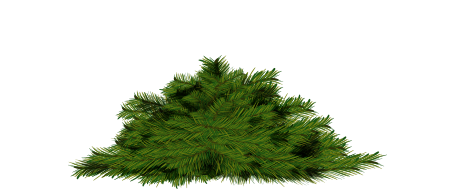
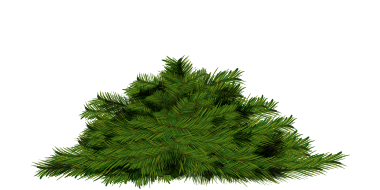
Update v1.2
Tree updated, balls hang in alignment of degrees rotated.

Changed region(s): [[0.0868, 0.2895, 0.9263, 1.0]]

diff --git a/css/styles.css b/css/styles.css
@@ -1,1 +1,1 @@
-html,body,div,span,applet,object,iframe,h1,h2,h3,h4,h5,h6,p,blockquote,pre,a,abbr,acronym,address,big,cite,code,del,dfn,em,img,ins,kbd,q,s,samp,small,strike,strong,sub,sup,tt,var,b,u,i,center,dl,dt,dd,ol,ul,li,fieldset,form,label,legend,table,caption,tbody,tfoot,thead,tr,th,td,article,aside,canvas,details,embed,figure,figcaption,footer,header,hgroup,menu,nav,output,ruby,section,summary,time,mark,audio,video{margin:0;padding:0;font-size:12px;font:inherit}article,aside,details,figcaption,figure,footer,header,hgroup,menu,nav,section{display:block}body{line-height:1}ol,ul{list-style:none}blockquote,q{quotes:none}blockquote:before,blockquote:after,q:before,q:after{content:'';content:none}table{border-collapse:collapse;border-spacing:0}:focus{outline:none}::-moz-focus-inner{border:0}*:focus{outline:0}*{margin:0;box-sizing:border-box}html,body{margin:0;padding:0;background-color:white;color:#666666;font-size:15px;font-family:Helvetica,Verdana,monospace;height:100%;min-height:100%}img{border-style:none;vertical-align:top}a{text-decoration:underline;color:#ccc;font-weight:bold;font-family:Helvetica,Verdana,monospace;font-size:1em}a:hover{text-decoration:none}h1{color:#fff;font-family:Arial,cursive,sans-serif;font-weight:normal;text-align:center;font-size:50px;line-height:1.2em;padding:10px 0px;margin:0px auto 0px}h2{color:#fff;font-family:Helvetica,Verdana,monospace;font-weight:normal;text-align:left;font-size:3.2em;line-height:1em;margin:0px 0px 20px;padding-top:30px}h3{color:#fff;font-family:Times,sans-serif;font-weight:normal;text-align:center;font-size:1.8em;line-height:1.2em;margin:0px 0px 15px 0px}h4{color:#fff;font-family:Helvetica,Verdana,monospace;font-weight:normal;text-align:center;font-size:31px;line-height:1.2em;margin:0px 0px 15px}h5{font-family:Arial,sans-serif;font-weight:bold;color:black;font-size:1.1em;line-height:1.4em}h6{font-family:Arial,sans-serif;font-weight:bold;color:black;font-size:1.6em;line-height:1.6em;margin:0;padding:0}p{color:#fff;font-size:1.1em;font-family:Helvetica,Verdana,monospace;text-align:left;line-height:1.3em;margin-top:8px;margin-bottom:20px}.main{background:rgba(0,255,0,0.2);color:white;font-weight:bold;position:absolute;top:0;width:100%}.float-containers{overflow:hidden;width:100%}.fl{float:left;width:60%}.fr{float:right;width:39%}.onethird{width:32%;float:left}.marginleft{margin-left:2%}.medium-col{float:left;width:49%}.footer{position:fixed;bottom:10px;right:10px;z-index:9;padding-top:200px}label{font-family:Helvetica,Verdana,monospace;color:#fff;font-size:1em;line-height:1.4em}ul{list-style:disc;color:white}ul li{color:white;font-family:Helvetica,Verdana,monospace;font-size:1.6em;line-height:1.6em;font-weight:100}hr{margin-top:5px;margin-bottom:8px;border:none;border-bottom:1px solid #d9d9d9}.input-wrap{border-radius:5px;-moz-border-radius:5px;-webkit-border-radius:5px;border:1px solid #000;border-bottom:3px solid #000;background:url("../images/btn_input.jpg") no-repeat;color:white;width:100%;max-width:400px;margin:0 auto 15px}select{background:none;text-align:left;font-size:2em;border:none;width:95%;color:white;margin:0px 10px 4px;-webkit-appearance:none;-moz-appearance:none;background:url("../images/select.png") no-repeat 95% 50% !important}.error{border-color:red}.buttonbg{width:100%;max-width:400px;margin:10px auto 10px;text-align:center}.button{display:block;width:100%;color:#fff;font-size:40px;line-height:42px;padding:5px 0px 5px;font-family:Arial,sans-serif;text-shadow:2px 2px 1px rgba(30,30,30,0.8);-webkit-border-radius:10px;-moz-border-radius:10px;border-radius:10px;background:url("../images/btn_bg.png") 0 0 no-repeat;-webkit-box-shadow:2px 2px 10px rgba(50,50,50,0.71);-moz-box-shadow:2px 2px 10px rgba(50,50,50,0.71);box-shadow:2px 2px 10px rgba(50,50,50,0.71);text-decoration:none}a.button:hover{color:black}.container{position:relative;width:100%;margin:0 auto;height:100%;min-height:100%;text-align:center;background-size:cover;overflow-x:hidden}::-webkit-input-placeholder{color:white}:-moz-placeholder{color:white;opacity:1}::-moz-placeholder{color:white;opacity:1}:-ms-input-placeholder{color:white}@media only screen and (min-width: 320px){.container{width:100%;overflow:hidden;height:100%;max-width:960px}.header img{width:100%}.header{position:absolute}#tree{transition:.35s;position:absolute;bottom:0}#tree .segment>img{width:100%;height:190px}#tree .ornament>img{margin:0 15px}}@media only screen and (min-width: 480px){#tree{margin:0 auto;max-width:960px;transition:.35s}#tree .segment>img{width:auto}}@media only screen and (min-width: 768px){.header img{width:100%;max-width:960px}#tree{width:100%}#tree .segment>img{width:auto}}
+html,body,div,span,applet,object,iframe,h1,h2,h3,h4,h5,h6,p,blockquote,pre,a,abbr,acronym,address,big,cite,code,del,dfn,em,img,ins,kbd,q,s,samp,small,strike,strong,sub,sup,tt,var,b,u,i,center,dl,dt,dd,ol,ul,li,fieldset,form,label,legend,table,caption,tbody,tfoot,thead,tr,th,td,article,aside,canvas,details,embed,figure,figcaption,footer,header,hgroup,menu,nav,output,ruby,section,summary,time,mark,audio,video{margin:0;padding:0;font-size:12px;font:inherit}article,aside,details,figcaption,figure,footer,header,hgroup,menu,nav,section{display:block}body{line-height:1}ol,ul{list-style:none}blockquote,q{quotes:none}blockquote:before,blockquote:after,q:before,q:after{content:'';content:none}table{border-collapse:collapse;border-spacing:0}:focus{outline:none}::-moz-focus-inner{border:0}*:focus{outline:0}*{margin:0;box-sizing:border-box}html,body{margin:0;padding:0;background-color:white;color:#666666;font-size:15px;font-family:Helvetica,Verdana,monospace;height:100%;min-height:100%}img{border-style:none;vertical-align:top}a{text-decoration:underline;color:#ccc;font-weight:bold;font-family:Helvetica,Verdana,monospace;font-size:1em}a:hover{text-decoration:none}h1{color:#fff;font-family:Arial,cursive,sans-serif;font-weight:normal;text-align:center;font-size:50px;line-height:1.2em;padding:10px 0px;margin:0px auto 0px}h2{color:#fff;font-family:Helvetica,Verdana,monospace;font-weight:normal;text-align:left;font-size:3.2em;line-height:1em;margin:0px 0px 20px;padding-top:30px}h3{color:#fff;font-family:Times,sans-serif;font-weight:normal;text-align:center;font-size:1.8em;line-height:1.2em;margin:0px 0px 15px 0px}h4{color:#fff;font-family:Helvetica,Verdana,monospace;font-weight:normal;text-align:center;font-size:31px;line-height:1.2em;margin:0px 0px 15px}h5{font-family:Arial,sans-serif;font-weight:bold;color:black;font-size:1.1em;line-height:1.4em}h6{font-family:Arial,sans-serif;font-weight:bold;color:black;font-size:1.6em;line-height:1.6em;margin:0;padding:0}p{color:#fff;font-size:1.1em;font-family:Helvetica,Verdana,monospace;text-align:left;line-height:1.3em;margin-top:8px;margin-bottom:20px}.main{background:rgba(0,255,0,0.2);color:white;font-weight:bold;position:absolute;top:0;width:100%}.float-containers{overflow:hidden;width:100%}.fl{float:left;width:60%}.fr{float:right;width:39%}.onethird{width:32%;float:left}.marginleft{margin-left:2%}.medium-col{float:left;width:49%}.footer{position:fixed;bottom:10px;right:10px;z-index:9;padding-top:200px}label{font-family:Helvetica,Verdana,monospace;color:#fff;font-size:1em;line-height:1.4em}ul{list-style:disc;color:white}ul li{color:white;font-family:Helvetica,Verdana,monospace;font-size:1.6em;line-height:1.6em;font-weight:100}hr{margin-top:5px;margin-bottom:8px;border:none;border-bottom:1px solid #d9d9d9}.input-wrap{border-radius:5px;-moz-border-radius:5px;-webkit-border-radius:5px;border:1px solid #000;border-bottom:3px solid #000;background:url("../images/btn_input.jpg") no-repeat;color:white;width:100%;max-width:400px;margin:0 auto 15px}select{background:none;text-align:left;font-size:2em;border:none;width:95%;color:white;margin:0px 10px 4px;-webkit-appearance:none;-moz-appearance:none;background:url("../images/select.png") no-repeat 95% 50% !important}.error{border-color:red}.buttonbg{width:100%;max-width:400px;margin:10px auto 10px;text-align:center}.button{display:block;width:100%;color:#fff;font-size:40px;line-height:42px;padding:5px 0px 5px;font-family:Arial,sans-serif;text-shadow:2px 2px 1px rgba(30,30,30,0.8);-webkit-border-radius:10px;-moz-border-radius:10px;border-radius:10px;background:url("../images/btn_bg.png") 0 0 no-repeat;-webkit-box-shadow:2px 2px 10px rgba(50,50,50,0.71);-moz-box-shadow:2px 2px 10px rgba(50,50,50,0.71);box-shadow:2px 2px 10px rgba(50,50,50,0.71);text-decoration:none}a.button:hover{color:black}.container{position:relative;width:100%;margin:0 auto;height:100%;min-height:100%;text-align:center;background-size:cover;overflow-x:hidden}::-webkit-input-placeholder{color:white}:-moz-placeholder{color:white;opacity:1}::-moz-placeholder{color:white;opacity:1}:-ms-input-placeholder{color:white}@media only screen and (min-width: 320px){.container{width:100%;overflow:hidden;height:100%;max-width:960px}#tree .segment>img{width:100%;min-height:180px;height:auto}#tree .ornament>img{margin:0 15px}}@media only screen and (min-width: 480px){#tree{max-width:960px}#tree .segment>img{width:auto}#tree .ornament>img{margin:0 25px}}@media only screen and (min-width: 768px){#tree{width:100%}}

diff --git a/js/tree.js b/js/tree.js
@@ -61,7 +61,6 @@ HCSegment.prototype = {
                 "src": imagePath + deco_settings.filepath + deco_settings.prename + randomid + deco_settings.filetype
             });
         }
-
         that.loadImages(images, imagesLoaded);
 
         //Callback function after images have loaded
@@ -157,7 +156,7 @@ HCSegment.prototype = {
                     'position': 'absolute',
                     'width': '100%',
                     'text-align': 'center',
-                    'bottom': '5%'
+                    'bottom': '11%'
                 });
             
             //Create decorations per branch - ie segment 1 = 1 ornament, segment 5 = 5 ornaments
@@ -214,8 +213,8 @@ HCSegment.prototype = {
                 $("#segment_" + i + " .ornament img")
                     .rotate({
                         duration: duration,
-                        center: [center_x + '%', center_y + '%'],
-                        animateTo: previous * 2,
+                        //center: [center_x + '%', center_y + '%'],
+                        animateTo: max_degree,
                         easing: $.easing.easeInOutCubic
                     });
                 // if (previous == max_degree - 1) {
@@ -236,6 +235,7 @@ HCSegment.prototype = {
         var previous = degrees;
         var center_y = 100;
         var center_x = 38;
+        var ball_center_x = center_x;
 
         if (max_degree > 1) {
             for (var i = number_segments - 1; i >= 0; i--) {
@@ -249,13 +249,16 @@ HCSegment.prototype = {
                         animateTo: previous,
                         easing: $.easing.easeInOutCubic
                     });
+                //ball_center_x = center_x - 60;
+                //ball
                 $("#segment_" + i + " .ornament img")
                     .rotate({
                         duration: duration,
-                        center: [center_x + '%', center_y + '%'],
-                        animateTo: -previous * 2,
+                        //center: [ball_center_x + '%', center_y + '%'],
+                        animateTo: -max_degree,
                         easing: $.easing.easeInOutCubic
                     });
+
                 // if (previous == max_degree - 1) {
                 // 	this.checkCount--;
                 // 	console.log(this.checkCount);
@@ -267,6 +270,7 @@ HCSegment.prototype = {
     shakeDirection: function(direction, max_degree, duration) {
         var MAX_DEGREES = 45;
         var that = this;
+        var animation;
 
         if (max_degree > 1 && max_degree <= MAX_DEGREES) {
 
@@ -282,17 +286,17 @@ HCSegment.prototype = {
                 center_x += 1;
                 center_y += 15;
                 duration += 10;
-
-                $("div#divsegment_" + i + " img")
+                animation = (direction == 'left') ? -previous : previous;
+                $("#segment_" + i)
                     .rotate({
                         duration: duration,
                         center: [center_x + '%', center_y + '%'],
-                        animateTo: (direction == 'left') ? -previous : previous,
-                        easing: $.easing.easeInOutCubic //,
-                            // callback: function(){
-                            // 	direction = (direction == 'left') ? 'right' : 'left';
-                            // 	that.shakeDirection(direction, max_degree/2, duration);
-                            // }
+                        animateTo: animation,
+                        easing: $.easing.easeInOutCubic,
+                        callback: function(){
+                            direction = (direction == 'left') ? 'right' : 'left';
+                            that.shakeDirection(direction, max_degree/2, duration);
+                        }
                     });
             }
         }

diff --git a/js/scripts.js b/js/scripts.js
@@ -5,6 +5,16 @@
 
     game.preloadSettings();
 
+     $('#tree').click(function(event){
+        //var timer = 0;
+        //var direction = "left";
+        //for (var i = 0; i < 10; i++) {
+                game.shakeDirection("left", 45, 2);
+                //movementDelay(direction, timer);
+                //direction = (direction == "left") ? "right" : "left";
+                //timer = timer + 500;
+         //}
+    });
 
     $(document).ready(function() {
         //DETECT orientation and create action
@@ -47,16 +57,16 @@
                 if (tiltFB < 90){ //tilted forward - no nothing
                     if (tiltLR < 0) {
                         //move left
-                        game.moveLeft(-tiltLR, 35);
+                        game.moveLeft(-tiltLR, 2);
                    
                     } else {
-                        game.moveRight(tiltLR, 35);
+                        game.moveRight(tiltLR, 2);
   
                     }   
                 }
                 
                 
-                $("#answer").text(tiltFB + ' sf-> ' + game.checkCount) // + " : " + tiltFB + " : " + dir);
+                //$("#answer").text(tiltFB + ' sf-> ' + game.checkCount) // + " : " + tiltFB + " : " + dir);
 
             }, false);
         } else {
@@ -90,6 +100,18 @@
         //WINDOW RESIZE
         $(window).resize(function() {});
 
+
+
+        // function movementDelay( direction, secondsdelay ){
+        //     setTimeout(function(){
+        //         console.log(direction);
+        //         if (direction == "left"){
+        //             game.moveLeft(45, 1);
+        //         } else {
+        //              game.moveRight(45, 1);
+        //         }
+        //     }, secondsdelay);
+        // }
     });
 
     // $('a#knop').click(function(event){

diff --git a/sass/styles.scss b/sass/styles.scss
@@ -453,25 +453,13 @@ a.button:hover {
         height: 100%;
         max-width: 960px;
     }
-    .header img {
+     #tree .segment > img {
         width: 100%;
-    }
-    .header {
-        position: absolute;
-    }
-    #tree {
-
-        transition: .35s;
-
-        position: absolute;
-        bottom: 0;
-    }
-    #tree .segment > img {
-        width: 100%;
-        height: 190px;
+        min-height:180px;
+        height: auto;
     }
     #tree .ornament > img {
-margin: 0 15px;
+        margin: 0 15px;
     }
 }
 
@@ -479,14 +467,14 @@ margin: 0 15px;
 /* Extra Small Devices, Phones */
 
 @media only screen and (min-width: 480px) {
-    #tree {
-        margin: 0 auto;
-
+   #tree {
         max-width: 960px;
-        transition: .35s;
     }
     #tree .segment > img {
         width: auto;
+    }
+     #tree .ornament > img {
+        margin: 0 25px;
     }
 }
 
@@ -494,15 +482,8 @@ margin: 0 15px;
 /* Small Devices, Tablets */
 
 @media only screen and (min-width: 768px) {
-    .header img {
-        width: 100%;
-        max-width: 960px;
-    }
     #tree {
         width: 100%;
-    }
-    #tree .segment > img {
-        width: auto;
     }
 }
 
